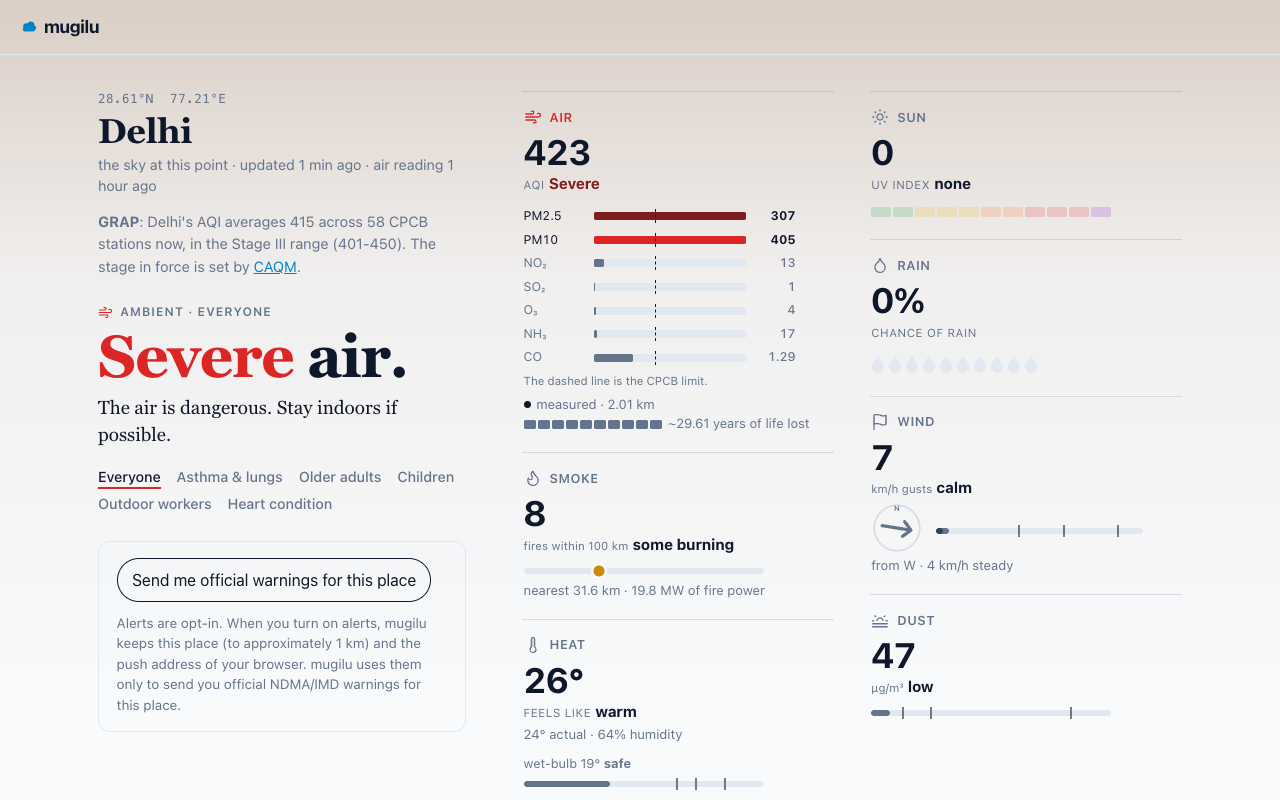
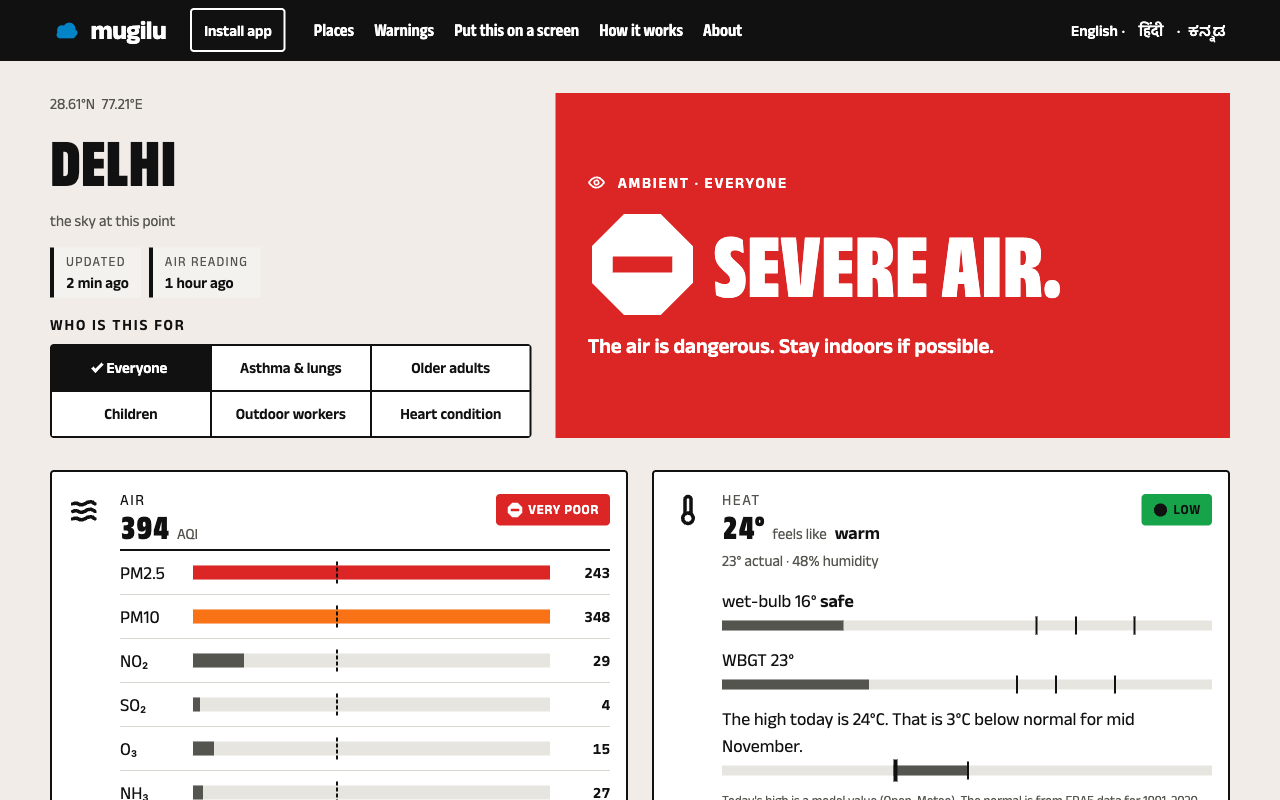
Docs drift: README, PDGI, llms.txt; How it works explains the map; localised JSON-LD (#96)
* docs: catch up with the redesign and the warnings layer

- README: new screenshots (desktop home, Delhi, phone home) with alt text that matches them;
  the India now map's layers; /places marks warned places; the hourly cron fetches warning
  areas and composes the map; the project layout after src/page.ts split into src/pages
  and src/ui.
- CONTRIBUTING: src/pages and src/ui, not src/page.ts; colours only from palette.ts, styles
  only from standard.ts.
- PDGI: Cloudflare Web Analytics is disclosed on /terms (not /about); the hi/kn strings follow
  IMD, NDMA and KSNDMC usage, and native review is named as the gap it is.
- llms.txt: lists /places.

* How it works explains the map; JSON-LD and language links follow the page

- /methodology §5 The map: the four levels on the home map, how a warned area takes its level
  from the alert's CAP severity (a table built from SEVERITY_BAND, the mapping the map uses,
  so the two cannot drift), and what a What's worst square shows (the /places note, now one
  shared constant). hi/kn show each CAP word after its meaning, e.g. "गंभीर (Severe)".
- The place page's Dataset JSON-LD has its name and description in the page's language, an
  inLanguage, and no spaced hyphen for a dash.
- Header and footer language names sit evenly: the current one is padded like the links, and
  the links are no longer stretched to 44px wide (height stays the tap target).
[…]

diff --git a/apps/worker/src/i18n.ts b/apps/worker/src/i18n.ts
@@ -2,8 +2,8 @@
 //
 // The KEY is the English source string: t("Popular:", lang). An unwired or
 // untranslated string falls back to English automatically, so pages can be
-// localised incrementally. hi drafts come from Sarvam + native review; kn from
-// a native review pass. To add a language L: extend Lang/LANGS/LANG_NAME
+// localised incrementally. hi and kn follow the words IMD, NDMA and KSNDMC use in
+// their own bulletins (no native reviewer yet). To add a language L: extend Lang/LANGS/LANG_NAME
 // and fill TR[...][L]. Brand terms (mugilu, SACHET, NDMA, IMD, QR) stay in Latin.
 
 import { HAZARDS, HAZARDS_SHORT, SITE_DESC } from "./hazards";
@@ -84,6 +84,25 @@ export const TR: Record<string, Partial<Record<Exclude<Lang, "en">, string>>> = 
   "Extremely Severe Cyclonic Storm": { hi: "अत्यंत गंभीर चक्रवाती तूफान", kn: "ಅತ್ಯಂತ ತೀವ್ರ ಚಂಡಮಾರುತ" },
   "Super Cyclonic Storm": { hi: "सुपर चक्रवाती तूफान", kn: "ಸೂಪರ್ ಚಂಡಮಾರುತ" },
   // the kiosk's title and description, the JTWC credit on /terms
+  // /methodology: the map section.
+  "The map": { hi: "मानचित्र", kn: "ನಕ್ಷೆ" },
+  "The map of India on the home page uses the same four levels. When official warnings are in force, it opens on them: each warned area takes its level from the severity IMD or NDMA gives in the alert. Where warnings overlap, the higher level is on top. Otherwise it opens on what is worst.":
+    {
+      hi: "होम पेज पर भारत का मानचित्र यही चार स्तर इस्तेमाल करता है। जब आधिकारिक चेतावनियाँ लागू हों, तो मानचित्र उन्हीं पर खुलता है: चेतावनी वाला हर इलाका अपना स्तर उस गंभीरता से लेता है जो IMD या NDMA चेतावनी में देते हैं। जहाँ चेतावनियाँ एक-दूसरे पर पड़ती हैं, वहाँ ऊँचा स्तर ऊपर दिखता है। वरना मानचित्र सबसे बुरे हाल पर खुलता है।",
+      kn: "ಮುಖಪುಟದಲ್ಲಿರುವ ಭಾರತದ ನಕ್ಷೆ ಇದೇ ನಾಲ್ಕು ಮಟ್ಟಗಳನ್ನು ಬಳಸುತ್ತದೆ. ಅಧಿಕೃತ ಎಚ್ಚರಿಕೆಗಳು ಜಾರಿಯಲ್ಲಿದ್ದಾಗ ನಕ್ಷೆ ಅವುಗಳ ಮೇಲೆ ತೆರೆಯುತ್ತದೆ: ಎಚ್ಚರಿಕೆಯಿರುವ ಪ್ರತಿ ಪ್ರದೇಶವು IMD ಅಥವಾ NDMA ಎಚ್ಚರಿಕೆಯಲ್ಲಿ ನೀಡುವ ತೀವ್ರತೆಯಿಂದ ತನ್ನ ಮಟ್ಟವನ್ನು ಪಡೆಯುತ್ತದೆ. ಎಚ್ಚರಿಕೆಗಳು ಒಂದರ ಮೇಲೊಂದು ಬಿದ್ದಲ್ಲಿ, ಹೆಚ್ಚಿನ ಮಟ್ಟ ಮೇಲೆ ಕಾಣುತ್ತದೆ. ಇಲ್ಲದಿದ್ದರೆ ನಕ್ಷೆ ಅತಿ ಕೆಟ್ಟದ್ದರ ಮೇಲೆ ತೆರೆಯುತ್ತದೆ.",
+    },
+  // CAP severity words, as the alert gives them (Severe and Moderate are the level words).
+  Extreme: { hi: "अत्यधिक", kn: "ಅತಿ ತೀವ್ರ" },
+  Minor: { hi: "मामूली", kn: "ಸಣ್ಣ" },
+  "Severity in the alert": { hi: "चेतावनी में गंभीरता", kn: "ಎಚ್ಚರಿಕೆಯಲ್ಲಿನ ತೀವ್ರತೆ" },
+  "Level on the map": { hi: "मानचित्र पर स्तर", kn: "ನಕ್ಷೆಯಲ್ಲಿನ ಮಟ್ಟ" },
+  "Any other": { hi: "कोई और", kn: "ಬೇರೆ ಯಾವುದೇ" },
+  // The place page's schema.org Dataset (its name and description).
+  "Sky conditions at {place}": { hi: "{place}: आसमान का हाल", kn: "{place}: ಆಕಾಶದ ಸ್ಥಿತಿ" },
+  [`The ${HAZARDS} at {place}, India, right now.`]: {
+    hi: `{place}, भारत में अभी ${HAZARDS_TR.hi}।`,
+    kn: `{place}, ಭಾರತದಲ್ಲಿ ಈಗಿನ ${HAZARDS_TR.kn}.`,
+  },
   "{place} on a screen": { hi: "{place} स्क्रीन पर", kn: "{place} ಸ್ಕ್ರೀನ್ ಮೇಲೆ" },
   "{place}: a live wall-display of the whole sky over this spot, self-refreshing.": {
     hi: "{place}: इस जगह के ऊपर के पूरे आसमान का लाइव वॉल डिस्प्ले, जो अपने आप ताज़ा होता है।",

diff --git a/apps/worker/src/pages/methodology.ts b/apps/worker/src/pages/methodology.ts
@@ -1,7 +1,9 @@
 import { esc, trusted } from "../html";
 import { RISK_BANDS, THRESHOLD_ROWS } from "../score";
 import { lp, t, type Lang } from "../i18n";
-import { cards, dataTable, LEVEL_SHAPE, LEVEL_WORD, pull, shape } from "../ui/components";
+import { cards, dataTable, LEVEL_SHAPE, LEVEL_WORD, levelChip, pull, shape } from "../ui/components";
+import { SQUARES_NOTE } from "../ui/map";
+import { SEVERITY_BAND } from "../warnareas";
 import { marked, P, splitAs, splitInto, textPage } from "./text";
 
 // The live paragraphs, as keys. English renders its markup version; hi/kn their reviewed
@@ -16,6 +18,28 @@ const NOTE_KEY =
   "Heat takes the worst of feels-like, wet-bulb and WBGT. The persona toggle then bumps a sensitive hazard up one level. Bands come from CPCB (air), IMD and the Australian BoM (heat / cold / wind), WHO (UV) and NASA FIRMS (smoke); the full logic is the open {score}, and every layer's source and licence is on {terms}.";
 const NORMAL_KEY =
   "On days when it stands out, the heat layer compares today's modelled high with the normal high for that place and time of year, from 1991-2020 ERA5 reanalysis (Copernicus) via Open-Meteo. It shows only when the two are 3 °C or more apart. It is not a heatwave declaration, which only IMD makes.";
+
+const MAP_KEY =
+  "The map of India on the home page uses the same four levels. When official warnings are in force, it opens on them: each warned area takes its level from the severity IMD or NDMA gives in the alert. Where warnings overlap, the higher level is on top. Otherwise it opens on what is worst.";
+
+/** The map's rules: the warning levels as a table built from the mapping the map itself uses. */
+function mapBody(lang: Lang): string {
+  // The alert's own word (CAP's English code), after its meaning on the hi and kn pages.
+  const word = (sev: string) => {
+    const code = sev[0].toUpperCase() + sev.slice(1);
+    return lang === "en" ? code : `${t(code, lang)} (${code})`;
+  };
+  const rows = [
+    ...Object.entries(SEVERITY_BAND).map(([sev, band]) => [esc(word(sev)), levelChip(band, lang)]),
+    [esc(t("Any other", lang)), levelChip("moderate", lang)],
+  ];
+  const cols = [{ label: t("Severity in the alert", lang) }, { label: t("Level on the map", lang) }];
+  return (
+    P(esc(t(MAP_KEY, lang))) +
+    dataTable(cols, rows, cols.map((c) => c.label).join(", ")) +
+    P(esc(t(SQUARES_NOTE, lang)))
+  );
+}
 
 /** The level strip: 0-3 as their fills, shapes and words (the sentence above names them). */
 const levelStrip = (lang: Lang) =>
@@ -96,6 +120,7 @@ export function renderMethodology(lang: Lang = "en"): string {
       { id: "who", title: t("For who you are", lang), icon: "person", body: whoBody },
       { id: "thresholds", title: t("The thresholds", lang), icon: "ruler", body: table + noteBody },
       { id: "normal", title: t("Today against normal", lang), icon: "heat", body: normalBody },
+      { id: "map", title: t("The map", lang), icon: "warn", body: mapBody(lang) },
     ],
   });
 }

diff --git a/apps/worker/test/textpages.test.ts b/apps/worker/test/textpages.test.ts
@@ -150,3 +150,24 @@ test("mcp: the address, a card per client, a card per tool from the server's own
     /<code>nearest_stations<\/code><\/p><p>The nearest real \(measured\) air-quality monitoring stations to a place/,
   );
 });
+
+test("methodology: the map, glass-box too: how a warned area gets its level, from the code's own mapping", async () => {
+  const { SEVERITY_BAND } = await import("../src/warnareas");
+  const html = renderMethodology("en");
+  const sec = html.match(/<section class="tsec" id="map"[\s\S]*?<\/section>/)?.[0] ?? "";
+  assert.match(sec, /<h2[^>]*>[\s\S]*The map<\/h2>/);
+  assert.match(sec, /takes its level from the severity IMD or NDMA gives/);
+  assert.match(sec, /about 100 km across/);
+  // one row per CAP severity, its level as the chip every page uses, plus the fallback
+  for (const [sev, band] of Object.entries(SEVERITY_BAND))
+    assert.match(
+      sec,
+      new RegExp(`<th scope="row">${sev[0].toUpperCase()}${sev.slice(1)}</th><td><span class="chip ${band}">`),
+    );
+  assert.match(sec, /<th scope="row">Any other<\/th><td><span class="chip moderate">/);
+  for (const lang of ["hi", "kn"] as const) {
+    const s = renderMethodology(lang).match(/<section class="tsec" id="map"[\s\S]*?<\/section>/)?.[0] ?? "";
+    assert.doesNotMatch(s, /The map<\/h2>|takes its level|Any other|Severity in the alert/, lang);
+    assert.match(s, /<th scope="row">[^<(]+ \(Extreme\)<\/th><td><span class="chip severe">/, lang);
+  }
+});

diff --git a/apps/worker/test/page.test.ts b/apps/worker/test/page.test.ts
@@ -114,6 +114,24 @@ test("renderConditionsPage: schema.org Dataset JSON-LD (credits + machine-readab
   assert.match(html, /"position":2/);
 });
 
+test("renderConditionsPage: the Dataset JSON-LD speaks the page's language, with no dash in its words", () => {
+  const ds = (lang: "en" | "hi" | "kn") => {
+    const html = renderConditionsPage(conditions(), "everyone", "https://mugilu.live/c/bengaluru", lang);
+    const m = html.match(/<script type="application\/ld\+json">(.*?)<\/script>/s)!;
+    return JSON.parse(m[1])["@graph"].find((x: { "@type": string }) => x["@type"] === "Dataset");
+  };
+  const en = ds("en");
+  assert.equal(en.inLanguage, "en");
+  assert.match(en.description, /, India, right now\.$/);
+  for (const lang of ["hi", "kn"] as const) {
+    const d = ds(lang);
+    assert.equal(d.inLanguage, lang);
+    assert.notEqual(d.name, en.name, `${lang} name`);
+    assert.notEqual(d.description, en.description, `${lang} description`);
+    assert.doesNotMatch(d.name + d.description, /\{place\}|Sky conditions|right now/, lang);
+  }
+});
+
 test("renderConditionsPage: og:image is the page's own share snapshot", () => {
   const html = renderConditionsPage(conditions(), "everyone", "https://mugilu.live/c/bengaluru");
   assert.match(html, /property="og:image" content="https:\/\/mugilu\.live\/c\/bengaluru\.png"/);

diff --git a/apps/worker/src/ui/standard.ts b/apps/worker/src/ui/standard.ts
@@ -28,8 +28,8 @@ body{margin:0}
 .mg .skip{position:absolute;left:var(--sp2);top:var(--sp2);z-index:5;transform:translateY(-200%);background:var(--bg);color:var(--ink);padding:var(--sp2) var(--sp3);border:2px solid var(--ink);border-radius:var(--r);font-weight:600}
 .mg .skip:focus{transform:none}
 .mg .sh a.skip{color:var(--ink)}
-.mg .links a,.mg .back a,.mg a.back,.mg .flinks a,.mg .langs a,.mg .flangs a{display:inline-flex;align-items:center;justify-content:center;min-height:var(--hit);padding-inline:var(--sp1)}
-.mg .links a,.mg .flinks a,.mg .langs a,.mg .flangs a{min-width:var(--hit)}
+.mg .links a,.mg .back a,.mg a.back,.mg .flinks a,.mg .langs a,.mg .flangs a,.mg .langs>b,.mg .flangs>b{display:inline-flex;align-items:center;justify-content:center;min-height:var(--hit);padding-inline:var(--sp1)}
+.mg .links a,.mg .flinks a{min-width:var(--hit)}
 .mg .links{display:flex;flex-wrap:wrap;align-items:center;gap:0 var(--sp1)}
 .mg code{font-family:ui-monospace,SFMono-Regular,Menlo,monospace;font-size:.88em;overflow-wrap:anywhere}
 .mg b,.mg strong{font-weight:600}

diff --git a/apps/worker/test/standard-css.test.ts b/apps/worker/test/standard-css.test.ts
@@ -133,3 +133,13 @@ test("a fitted switch fills its row: options grow, wrap into whole rows, ruled b
   assert.match(STANDARD_CSS, /\.mg \.seg\.fit>label\{flex:1 1 auto;border:0;padding:0 var\(--sp1\)\}/);
   assert.match(STANDARD_CSS, /\.mg \.segf>\.seg:not\(\.grid2,\.fit\)\{justify-self:start\}/);
 });
+
+test("the language names sit evenly: the current one is padded like the links, and no link is stretched to 44px", () => {
+  // A 44px minimum width centred the short हिंदी in extra space while English (the current
+  // page, plain bold) had none, so the gaps around the dots differed. Height stays the target.
+  assert.match(
+    STANDARD_CSS,
+    /,\.mg \.langs>b,\.mg \.flangs>b\{display:inline-flex;[^}]*min-height:var\(--hit\);padding-inline:var\(--sp1\)\}/,
+  );
+  assert.doesNotMatch(STANDARD_CSS, /\.mg \.(f?langs) a[^{]*\{min-width/);
+});

diff --git a/apps/worker/src/ui/map.ts b/apps/worker/src/ui/map.ts
@@ -499,11 +499,15 @@ export function placesKey(lang: Lang, warned: boolean): string {
   );
 }
 
+/** What a "What's worst" square shows: under the /places map and on /methodology. */
+export const SQUARES_NOTE =
+  "Each square, about 100 km across, has the colour of what is worst in it, where that is high or severe. Air includes smoke and dust.";
+
 /** The grid's stamp and the squares' note under the /places map. */
 export function placesMapNote(m: IndiaMap | undefined, lang: Lang): string {
   if (!m?.gridAsOf) return "";
   return (
     stamp(t("Squares, heat and rain", lang), asOf(m.gridAsOf, lang)) +
-    `<p class="t-meta">${esc(t("Each square, about 100 km across, has the colour of what is worst in it, where that is high or severe. Air includes smoke and dust.", lang))}</p>`
+    `<p class="t-meta">${esc(t(SQUARES_NOTE, lang))}</p>`
   );
 }

diff --git a/apps/worker/src/meta.ts b/apps/worker/src/meta.ts
@@ -74,6 +74,7 @@ export function llmsTxt(siteUrl: string): string {
 - [Place search](${siteUrl}/suggest?q=bengaluru): ${siteUrl}/suggest?q={name}
 - [Air leaderboard](${siteUrl}/index.json): also ${siteUrl}/index.md
 - [Active warnings](${siteUrl}/warnings): national, also .json and .md
+- [Every place](${siteUrl}/places): every district and city by state, each marked when it lies inside an area under an official warning
 - Per-station: ${siteUrl}/s/{provider}/{id}.json and .md
 - Station JSON (/near, /index.json, /s/...json) carries "units" (CO mg/m3, other pollutants ug/m3, CPCB AQI) and lists only stations that reported within "fresh_within_hours" (3); each station has its reading time "ts"
 - Attribution: add ?ref=your-app to any API or /embed URL to identify your app or site (aggregate, domain-level; helps us see who builds on mugilu)

diff --git a/apps/worker/src/pages/place.ts b/apps/worker/src/pages/place.ts
@@ -202,8 +202,9 @@ export function renderConditionsPage(
         "@graph": [
           {
             "@type": "Dataset",
-            name: `Sky conditions at ${placeName}`,
-            description: `The ${HAZARDS} at ${placeName}, India - right now.`,
+            name: t("Sky conditions at {place}", lang).replace("{place}", placeName),
+            description: t(`The ${HAZARDS} at {place}, India, right now.`, lang).replace("{place}", placeName),
+            inLanguage: lang,
             url: canonical,
             isAccessibleForFree: true,
             creator: { "@type": "Organization", name: "mugilu", url: SITE },

diff --git a/apps/worker/test/meta.test.ts b/apps/worker/test/meta.test.ts
@@ -116,3 +116,10 @@ test("/.well-known/mcp.json: points agents at the hosted server and names every 
   );
   assert.ok(m.description.length >= 40);
 });
+
+test("llms.txt: lists /places, the directory of every district and city, and what marks a warned one", () => {
+  assert.match(
+    llmsTxt("https://mugilu.live"),
+    /- \[Every place\]\(https:\/\/mugilu\.live\/places\): [^\n]*official warning/,
+  );
+});

diff --git a/apps/worker/src/warnareas.ts b/apps/worker/src/warnareas.ts
@@ -110,7 +110,7 @@ export function simplifyArea(rings: Ring[]): Ring[] {
 }
 
 /** CAP severity onto the risk bands. An unknown level still shows, at moderate. */
-const SEVERITY_BAND: Record<string, RiskBand> = {
+export const SEVERITY_BAND: Record<string, RiskBand> = {
   extreme: "severe",
   severe: "high",
   moderate: "moderate",

diff --git a/README.md b/README.md
@@ -11,7 +11,7 @@
 [![mugilu MCP connector on mcptry](https://mcptry.com/badge/io.github.sathya-sankaran/mugilu)](https://mcptry.com/servers/io.github.sathya-sankaran/mugilu)
 [![Listed on mcpservers.org](https://mcpservers.org/badge.svg)](https://mcpservers.org/servers/urbanmorph/mugilu)
 
-![The mugilu homepage: a place search box and a map of India showing where the air, heat or cold is worst right now](docs/screenshots/home-desktop.png)
+![The mugilu homepage: the place search, an official cyclone warning, and the India now map opened on the warned areas](docs/screenshots/home-desktop.png)
 
 ಮುಗಿಲು (*mugilu*) is Kannada for *cloud* or *sky*. It is the third tool in a small commons, alongside [bharatlas](https://bharatlas.com) (open geo data for India) and [mdshare](https://mdshare.live). Live at [mugilu.live](https://mugilu.live).
 
@@ -47,7 +47,7 @@ Readings are current, not a forecast. They recompute on a cycle of about 15 minu
 - **Ambient read.** One line that names the single worst hazard for you and what to do about it.
 - **Weighted for who is asking.** Pass a persona (asthma, older adults, children, outdoor workers, heart condition) and the Ambient read is weighted for that group.
 - **Health impact.** Years of life lost from the air, using the AQLI methodology.
-- **India now.** A national map and leaderboard of the worst-air, hottest and dustiest places.
+- **India now.** A national map with layers for official warnings (the warned areas, by the level IMD gives), what is worst, air, heat and rain, and the hottest, dustiest and worst-air places.
 - **Many formats.** HTML for people, JSON for apps, Markdown for LLMs, a timestamped PNG, an embeddable card, a self-refreshing display for a wall screen, and an MCP server for agents.
 - **Three languages.** English, Hindi and Kannada pages; place search accepts native scripts (ಬೆಂಗಳೂರು, दिल्ली, சென்னை).
 - **Installable web app.** It keeps the last reading of places you opened for offline use, refreshes itself when it comes back on screen, and can send opt-in alerts for official warnings at a place.
@@ -57,7 +57,7 @@ Readings are current, not a forecast. They recompute on a cycle of about 15 minu
 
 | A city page ([/c/delhi](https://mugilu.live/c/delhi)) | Homepage on a phone |
 | --- | --- |
-| ![The Delhi page: an Ambient read of severe air, the AQI with each pollutant against its CPCB limit, smoke, heat, UV, rain, wind and dust](docs/screenshots/city-delhi.png) | <img src="docs/screenshots/home-mobile.png" alt="The mugilu homepage on a 390 px wide phone screen: the place search and the India now map" width="300"> |
+| ![The Delhi page: an Ambient read of severe air, the persona switch, the AQI with each pollutant against its CPCB limit, and the heat with wet-bulb, WBGT and today against normal](docs/screenshots/city-delhi.png) | <img src="docs/screenshots/home-mobile.png" alt="The mugilu homepage on a 390 px wide phone screen: the Menu button, the place search and an official warning" width="300"> |
 
 ## Use it on the web or as an API
 
@@ -102,7 +102,7 @@ A trimmed response (the full layers are `air`, `heat`, `heat_vs_normal`, `rain`,
 | `?as=` (`asthma`, `elderly`, `child`, `outdoor`, `heart`) | Weight the Ambient read for a vulnerability |
 | `/hi/…`, `/kn/…` | The same pages in Hindi or Kannada |
 | `/display`, `/c/{place}?kiosk` | Set up a wall screen; the self-refreshing display |
-| `/warnings`, `/places` | Active warnings across India; every district and city |
+| `/warnings`, `/places` | Active warnings across India; every district and city, marked when under an official warning |
 | `/near`, `/suggest` | Nearest air stations; place search (native scripts work) |
 | `/index.json`, `/warnings.json` | National air leaderboard; active NDMA/IMD warnings |
 | `/embed/{lat},{lon}` | Embeddable card, one line of HTML |
@@ -169,7 +169,7 @@ The heat normals are built offline on a 1° grid by [`apps/worker/scripts/build-
 
 mugilu is a single Cloudflare Worker ([`apps/worker`](./apps/worker)).
 
-- **Crons** ([`wrangler.toml`](./apps/worker/wrangler.toml)): hourly jobs refresh the air snapshot (each hour also kept in an air archive), NASA FIRMS fires, JTWC cyclone tracks and NDMA/SACHET warnings into R2 and send opt-in warning alerts; every four hours a national heat, rain, UV and dust grid is sampled and kept in a conditions archive (`/health/archives` shows when each archive last grew); a daily job refreshes the place hierarchy, prunes old referrer rows and pings [IndexNow](https://www.indexnow.org) (paused until 21 Nov 2026, then at most weekly and only for pages not yet announced).
+- **Crons** ([`wrangler.toml`](./apps/worker/wrangler.toml)): hourly jobs refresh the air snapshot (each hour also kept in an air archive), NASA FIRMS fires, JTWC cyclone tracks and NDMA/SACHET warnings into R2, fetch each new warning's area once (cached per alert, resumed across runs), compose the national map, and send opt-in warning alerts; every four hours a national heat, rain, UV and dust grid is sampled and kept in a conditions archive (`/health/archives` shows when each archive last grew); a daily job refreshes the place hierarchy, prunes old referrer rows and pings [IndexNow](https://www.indexnow.org) (paused until 21 Nov 2026, then at most weekly and only for pages not yet announced).
 - **Requests:** `/c/{lat},{lon}` assembles the nearest-station air, live Open-Meteo weather, fires and point warnings into one normalized schema, so each source is a swappable adapter.
 - **Caching:** pages that are the same for everyone are cached at the edge for a few minutes; degraded builds are never stored.
 - **Storage:** R2 holds the refreshed snapshots. D1 holds only aggregate usage metrics and opt-in alert subscriptions, and is never on the read path.
@@ -184,7 +184,10 @@ apps/worker/            the product: one Cloudflare Worker
   src/mcptools.ts       MCP tool definitions
   src/sources.ts        data sources, licences and attribution
   src/meta.ts           llms.txt, sitemap and the OpenAPI 3.1 spec (served live at /openapi.json)
-  src/page.ts           HTML templates
+  src/pages/            one module per page (home, place, places, warnings, display, text pages)
+  src/ui/               the shell, components, the map, and standard.ts (the one stylesheet)
+  src/palette.ts        every colour, for both themes
+  src/sachet.ts         official warnings from SACHET; src/warnareas.ts their areas
   src/i18n.ts           English, Hindi and Kannada strings
   test/                 node:test suite (run with tsx)
   scripts/              offline builders (heat normals, sampling grid)
